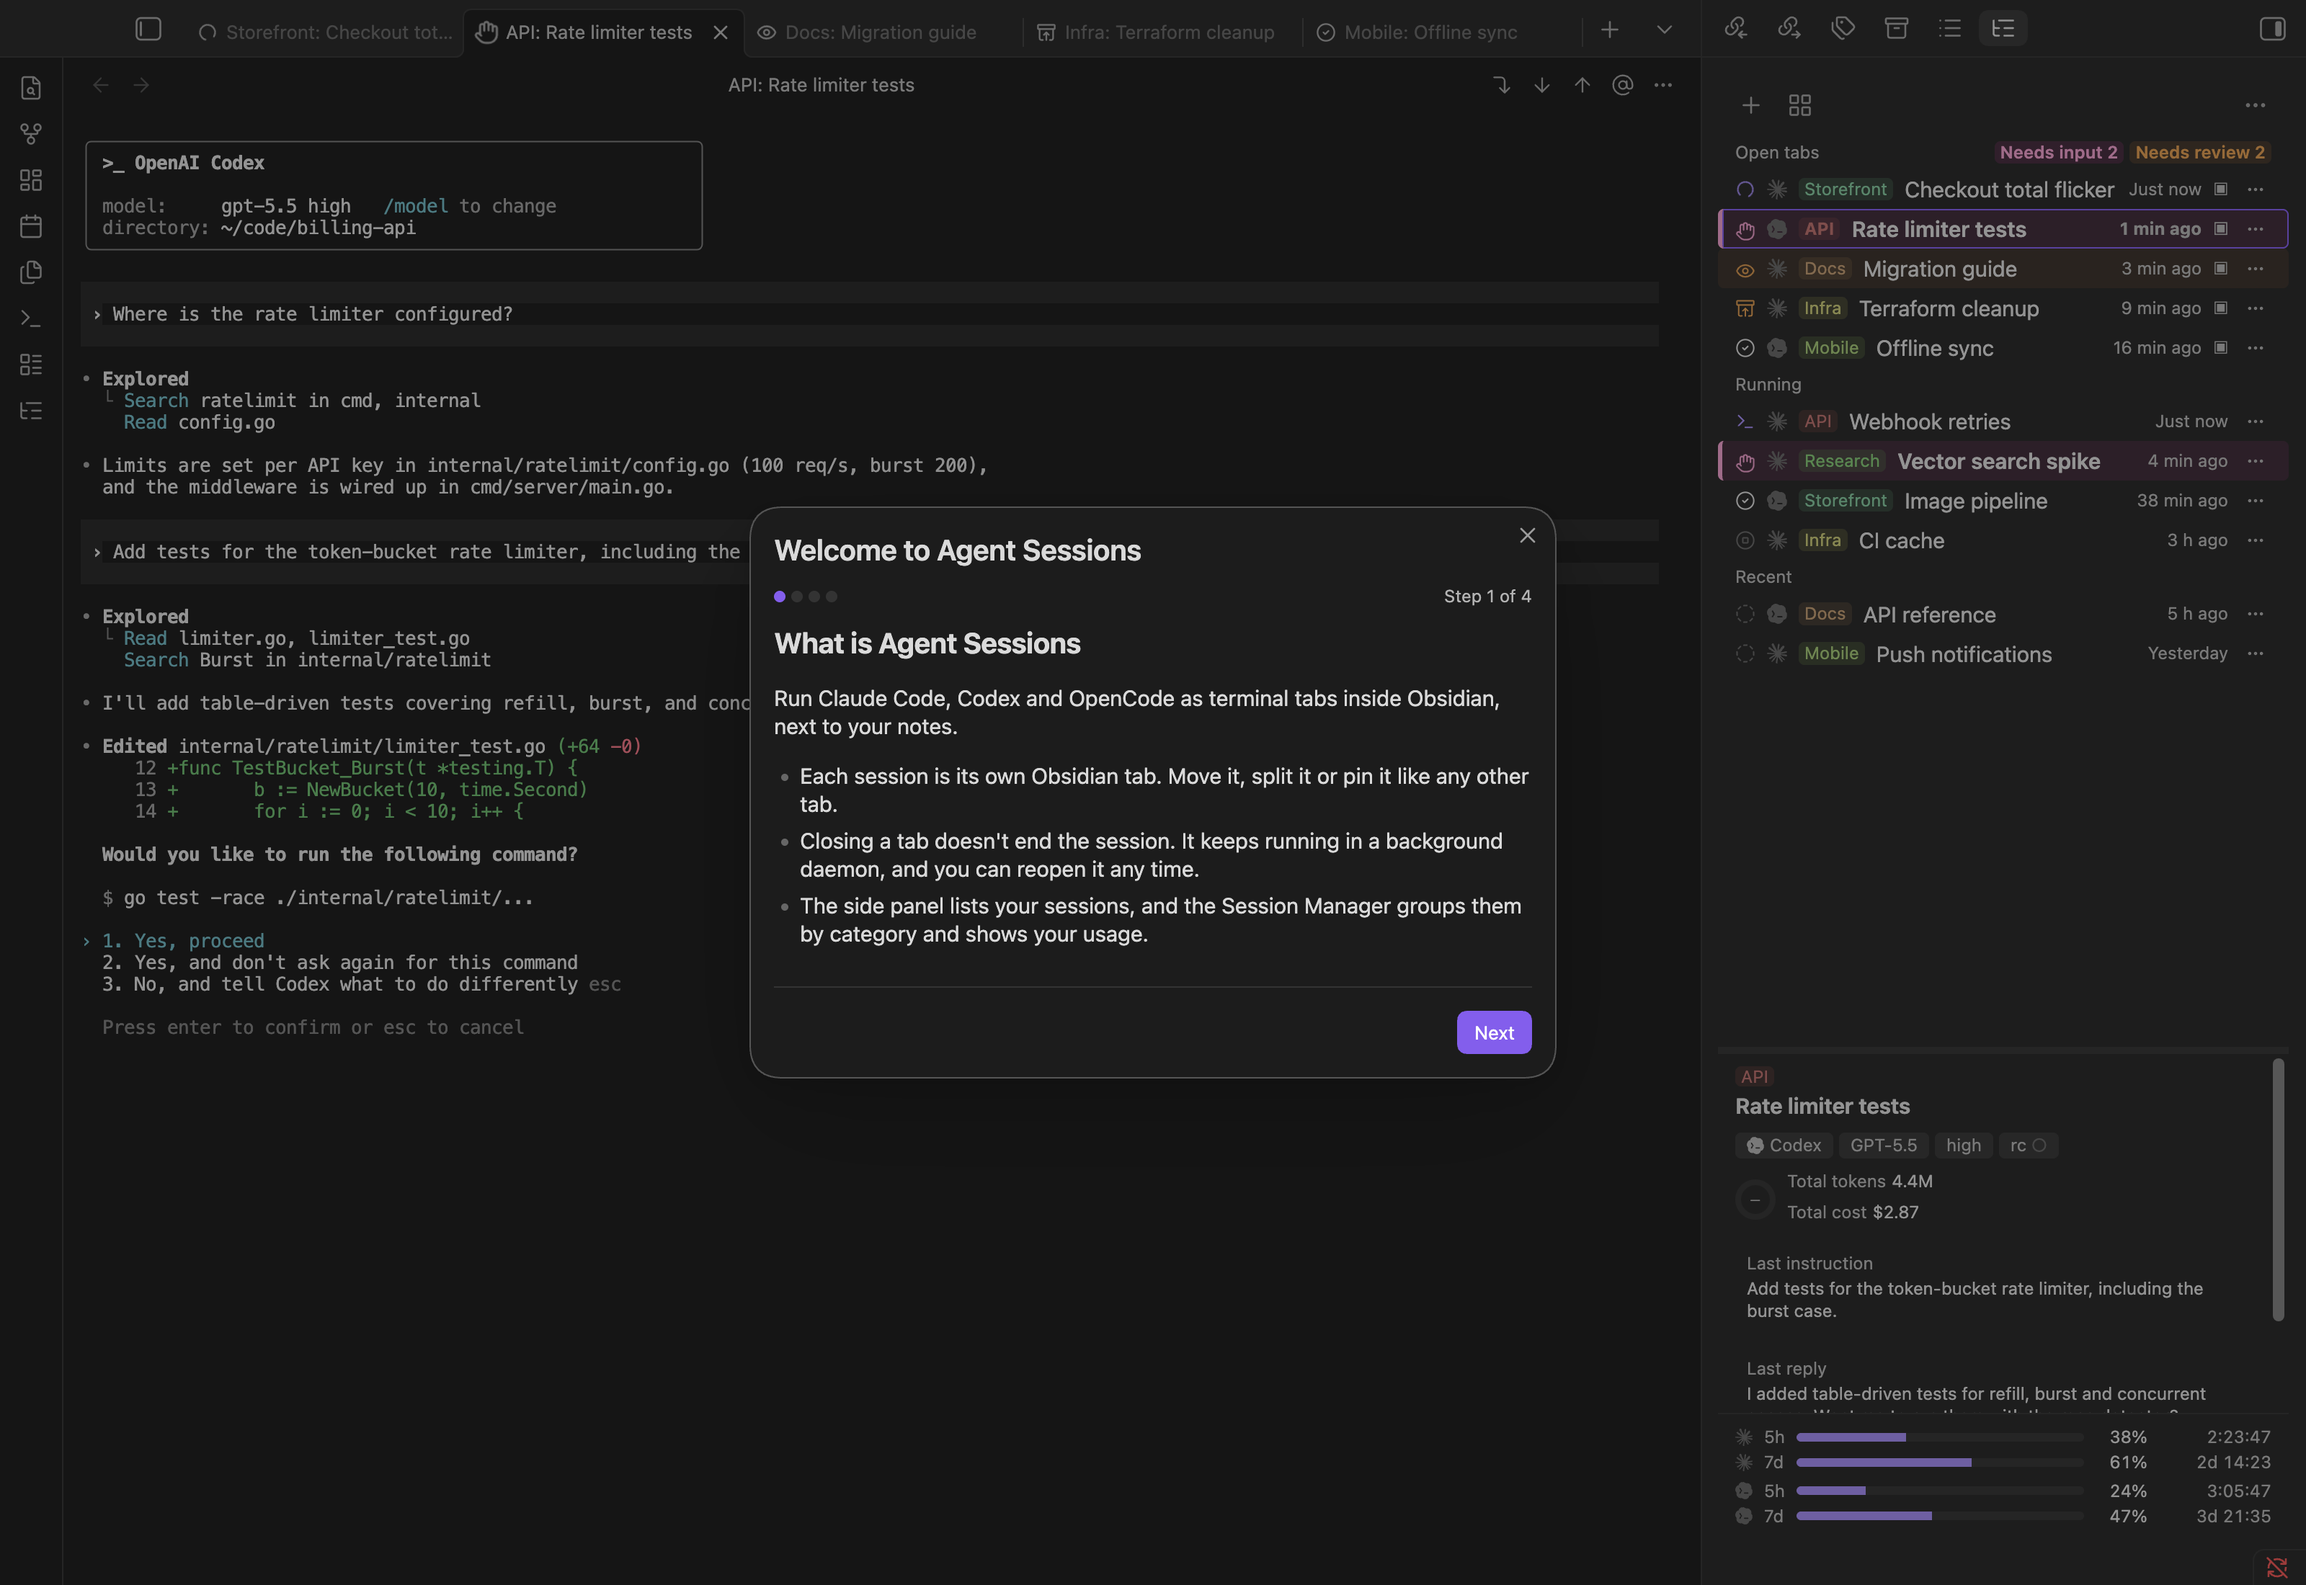
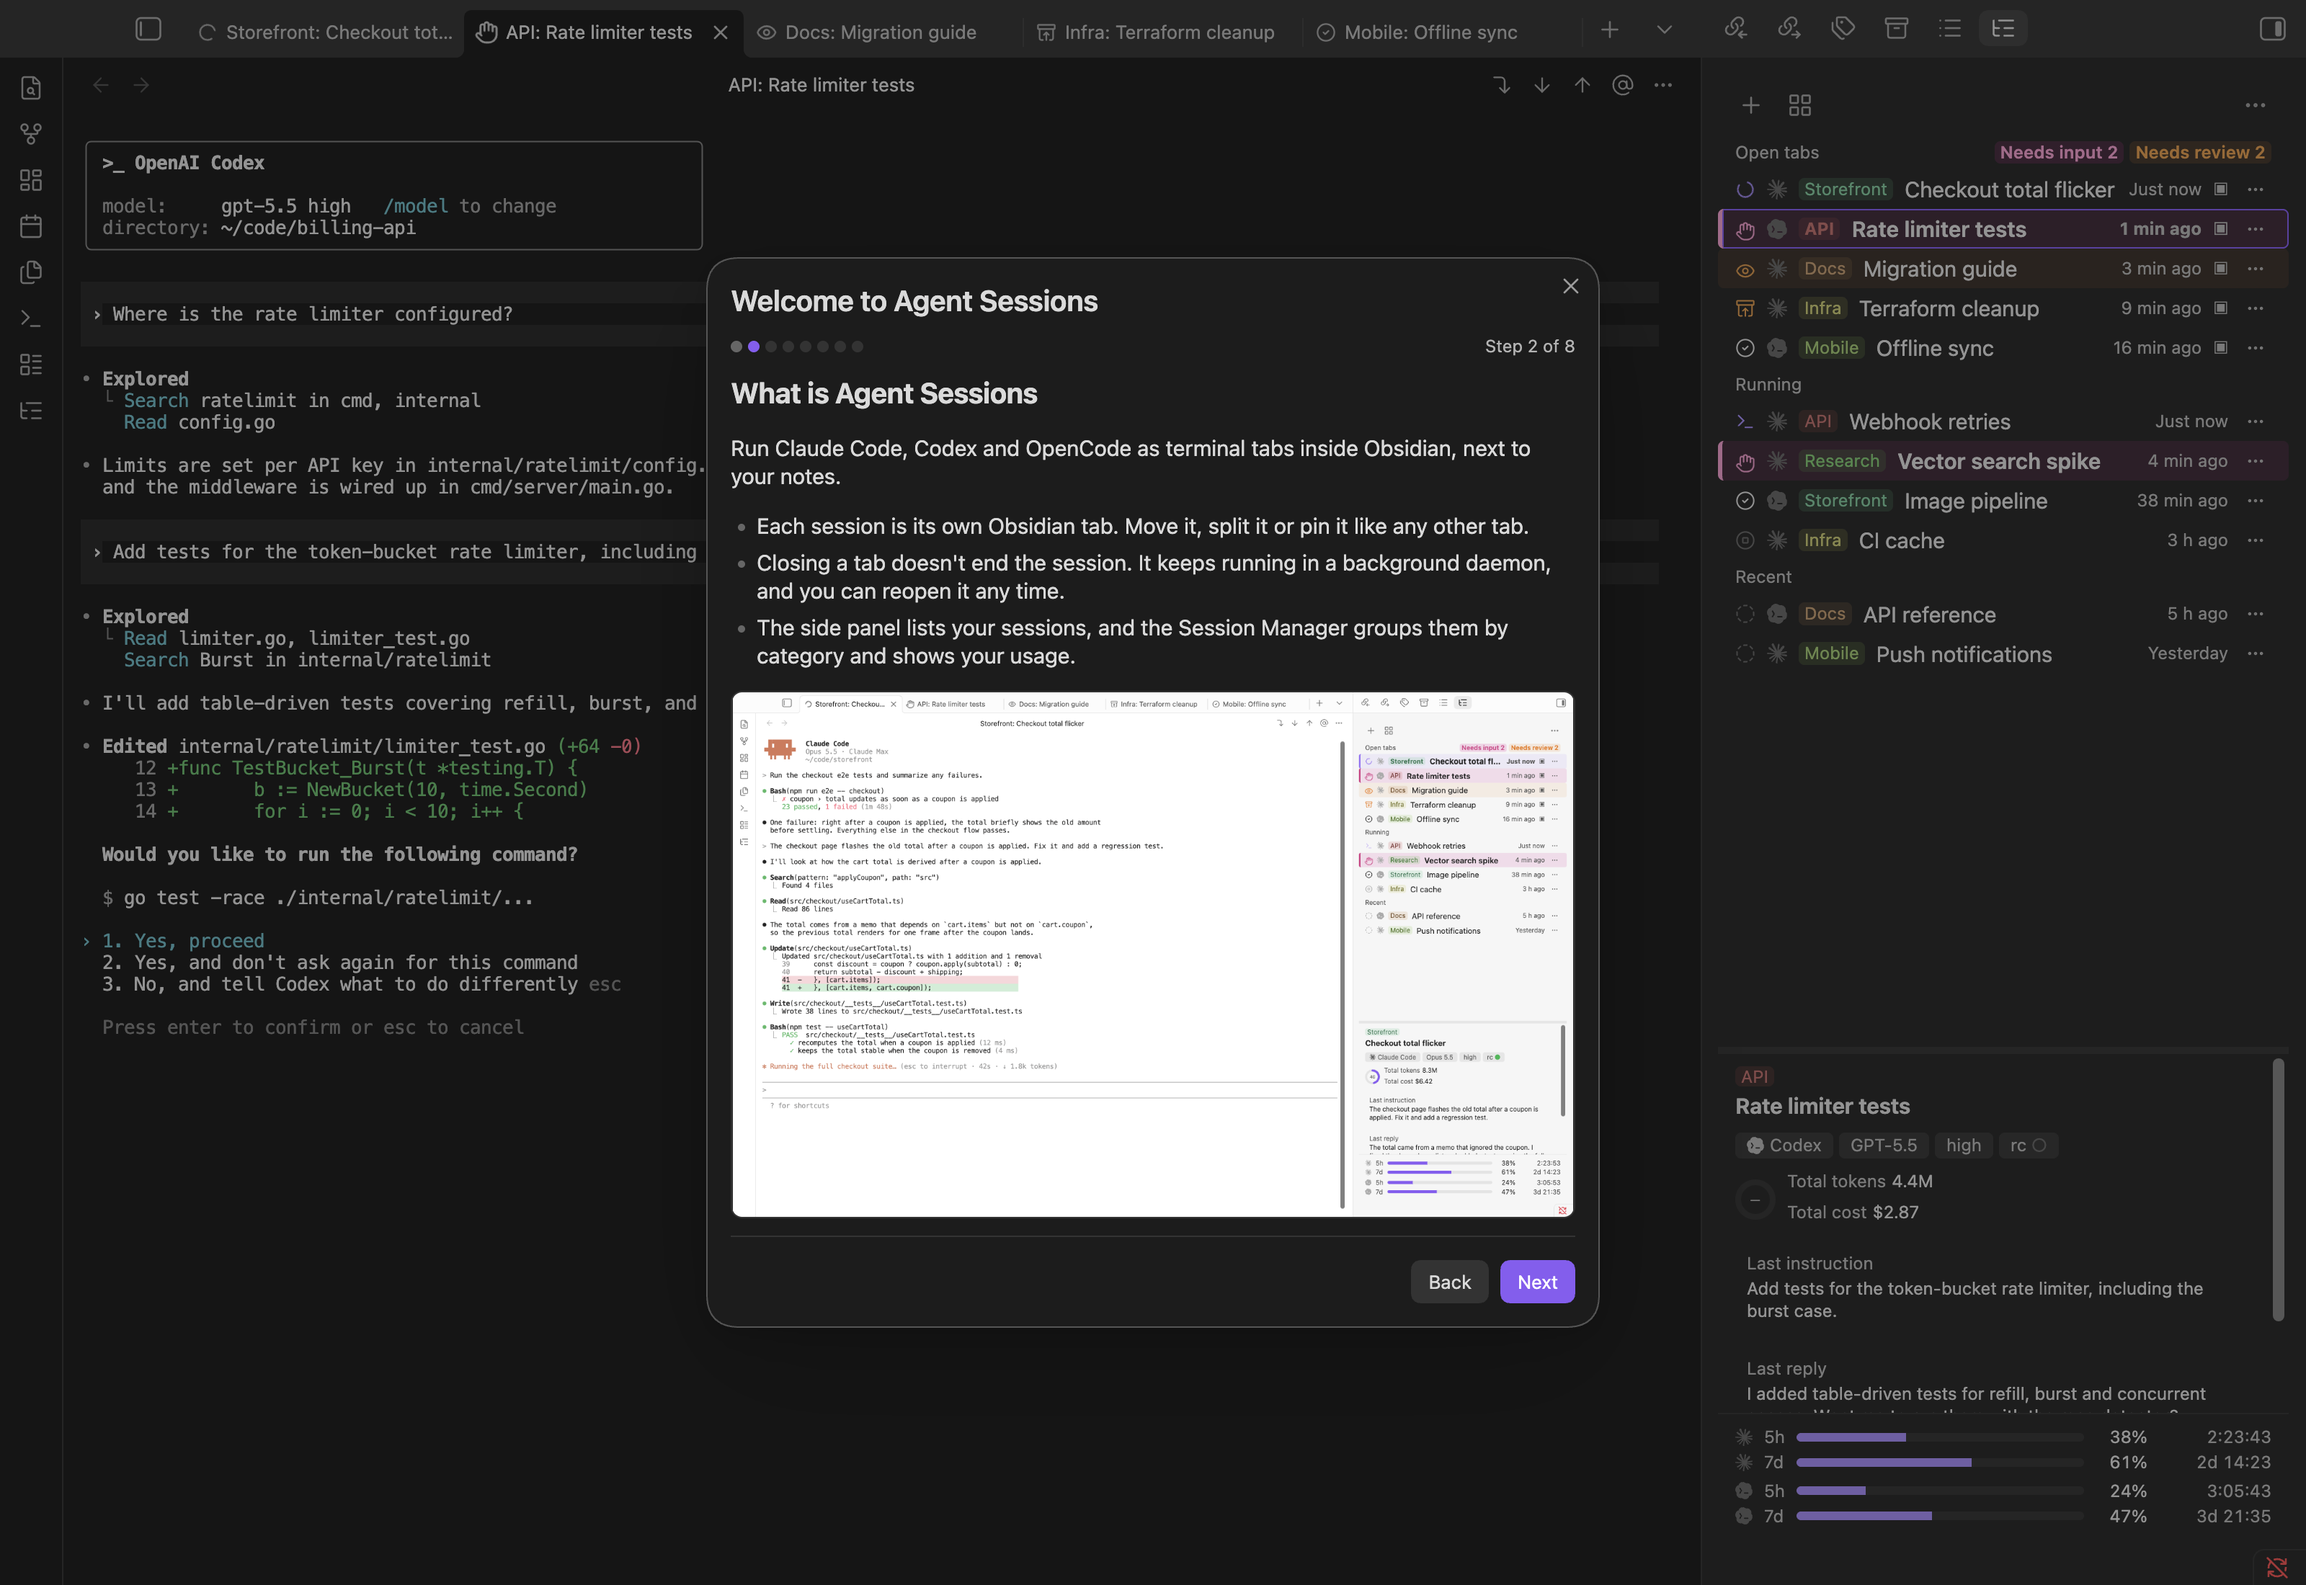
Screenshots: the README's welcome image shows the new guide
The language step has no picture, so welcome.png now shows the next step ("What is Agent
Sessions") with its overview picture, served from docs/onboarding/ by a local server (development
build only).

Claude-Session: https://claude.ai/code/session_019Wvg8o2qbPt57122DJ6d1R

Changed region(s): [[0.3125, 0.1855, 0.6875, 0.8345], [0.5938, 0.0, 0.625, 0.0309], [0.375, 0.0, 0.4062, 0.0309]]

diff --git a/tools/screenshots/README.md b/tools/screenshots/README.md
@@ -27,6 +27,8 @@ UI labels are read from the plugin's own locale files.
 
 # README screenshots
 
+The README's `welcome.png` shows the guide's second step with its picture, read from `docs/onboarding/` through a small local server. That needs a development build (the picture-folder override is not in the production bundle): build without `production` but as a one-shot (the plain `node esbuild.config.mjs` watches and never exits).
+
 `shoot.mjs` produces `docs/images/overview.png`, `manager.png`, `codex.png`, `welcome.png` (the
 welcome guide, first page), and `organize.png` (the "Organize names and categories" result view)
 from a build of the plugin, rendered by a real Obsidian. Build into a scratch directory, never
